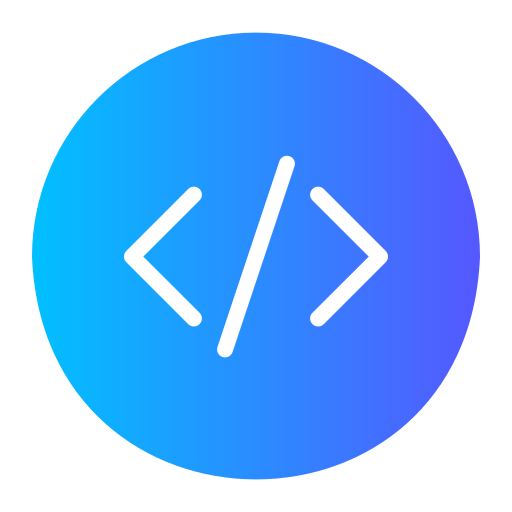
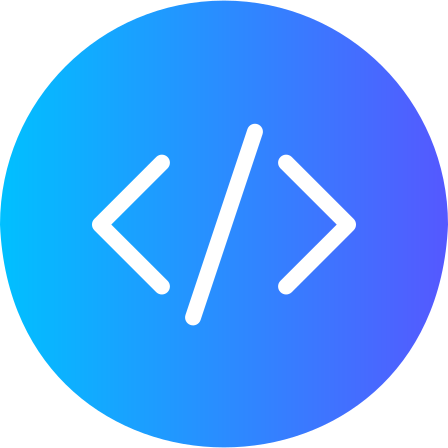
trim images

diff --git a/README.md b/README.md
@@ -2,9 +2,9 @@
     <img src="react.gif" width="20"> Matt Bolaños
 </h1>
 <p align='center'>
-    <a href="https://www.mattbolanos.com/"><img height="33" src="slash.png"></a>
-    <a href="https://twitter.com/mattabolanos"><img height="35" src="twitter_logo.png"></a>
-    <a href="https://www.linkedin.com/in/mattbolanos/"><img height="35" src="linkedin_logo.png"></a>
+    <a href="https://www.mattbolanos.com/"><img height="30" width="30" src="slash.png"></a>
+    <a href="https://twitter.com/mattabolanos"><img height="30" width="30" src="twitter_logo.png"></a>
+    <a href="https://www.linkedin.com/in/mattbolanos/"><img height="30" width="30" src="linkedin_logo.png"></a>
 </p>
 
 <h3>Hi There!</h3>
